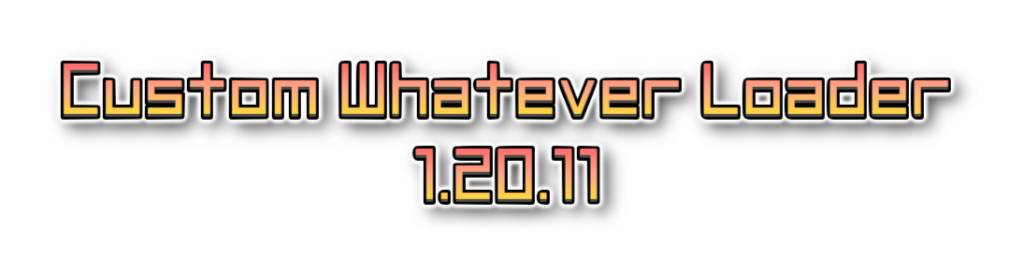
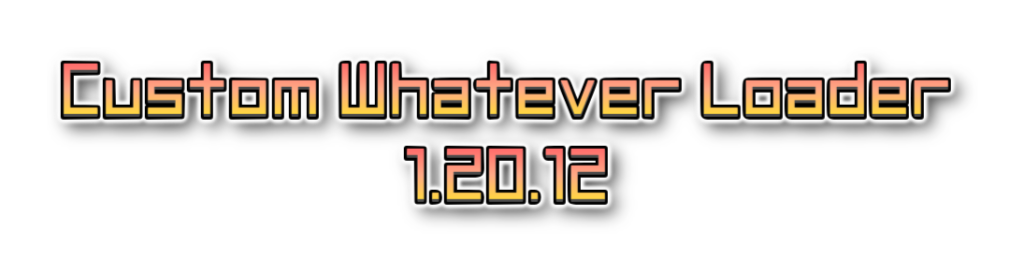
chore(CWL): cleanups & bump version

diff --git a/CustomWhateverLoader/API/WorkbookImporter.cs b/CustomWhateverLoader/API/WorkbookImporter.cs
@@ -57,7 +57,7 @@ public class WorkbookImporter
             try {
                 var sourceField = Sources.FirstOrDefault(f => f.FieldType.Name == $"Source{sheet.SheetName}" ||
                                                               f.FieldType.Name == $"Lang{sheet.SheetName}");
-                if (sourceField is null) {
+                if (sourceField?.GetValue(EMono.sources) is not SourceData source) {
                     CwlMod.Log<WorkbookImporter>("cwl_log_sheet_skip".Loc(sheet.SheetName));
                     continue;
                 }
@@ -66,9 +66,8 @@ public class WorkbookImporter
 
                 var sheetName = $"{sourceField.Name}:{import.Name}/{sheet.SheetName}";
                 CwlMod.Log<WorkbookImporter>("cwl_log_sheet".Loc(sheet.SheetName));
-
-                if (sourceField.GetValue(EMono.sources) is not SourceData source ||
-                    !source.ImportData(sheet, import.Name, true)) {
+                
+                if (!source.ImportData(sheet, import.Name, true)) {
                     throw new SourceParseException("cwl_error_source_except".Loc(sheetName));
                 }
 

diff --git a/CustomWhateverLoader/Patches/Sources/RowOverridePatch.cs b/CustomWhateverLoader/Patches/Sources/RowOverridePatch.cs
@@ -4,6 +4,7 @@ using System.Linq;
 using System.Reflection;
 using Cwl.Helper;
 using Cwl.Helper.Runtime;
+using Cwl.LangMod;
 using HarmonyLib;
 using MethodTimer;
 
@@ -52,11 +53,11 @@ internal class RowOverridePatch
             if (seen.Add(row)) {
                 uniqueRows.Add(row);
             } else {
-                CwlMod.Debug($"de-duplicated row: {row.GetFieldValue("id")}");
+                CwlMod.Debug("cwl_log_deduplicate".Loc(row.GetFieldValue("id")));
             }
         }
 
-        CwlMod.Debug($"{__instance.GetType().Name} row count {rows.Count} | unique count {uniqueRows.Count}");
+        CwlMod.Debug("cwl_log_unique_count".Loc(__instance.GetType().Name, rows.Count, uniqueRows.Count));
 
         rows.Clear();
         for (var i = uniqueRows.Count - 1; i >= 0; --i) {

diff --git a/CustomWhateverLoader/Patches/Elements/FuzzyLookupPatch.cs b/CustomWhateverLoader/Patches/Elements/FuzzyLookupPatch.cs
@@ -2,6 +2,7 @@
 using System.Collections.Generic;
 using System.Reflection.Emit;
 using Cwl.Helper.Extensions;
+using Cwl.LangMod;
 using HarmonyLib;
 
 namespace Cwl.Patches.Elements;
@@ -44,7 +45,7 @@ internal class FuzzyLookup
             return true;
         }
 
-        CwlMod.Warn<FuzzyLookup>($"cannot find element: {alias}");
+        CwlMod.Warn<FuzzyLookup>("cwl_warn_fuzzy_lookup".Loc(alias));
         return false;
     }
 }

diff --git a/CustomWhateverLoader/Helper/Extensions/ZoneExt.cs b/CustomWhateverLoader/Helper/Extensions/ZoneExt.cs
@@ -1,4 +1,6 @@
-namespace Cwl.Helper.Extensions;
+using Cwl.LangMod;
+
+namespace Cwl.Helper.Extensions;
 
 public static class ZoneExt
 {
@@ -14,7 +16,7 @@ public static class ZoneExt
         newZone.x = zone.x;
         newZone.y = zone.y;
 
-        CwlMod.Log<SpatialGen>($"instantiating new zone {zone.Name} / {lv}");
+        CwlMod.Log<SpatialGen>("cwl_log_spatial_gen".Loc(zone.Name, lv));
 
         return newZone;
     }

diff --git a/CustomWhateverLoader/Loader/CustomWhateverLoader.cs b/CustomWhateverLoader/Loader/CustomWhateverLoader.cs
@@ -12,7 +12,7 @@ public static class ModInfo
     // for legacy reason
     public const string Guid = "dk.elinplugins.customdialogloader";
     public const string Name = "Custom Whatever Loader";
-    public const string Version = "1.20.11";
+    public const string Version = "1.20.12";
 }
 
 [BepInPlugin(ModInfo.Guid, ModInfo.Name, ModInfo.Version)]
